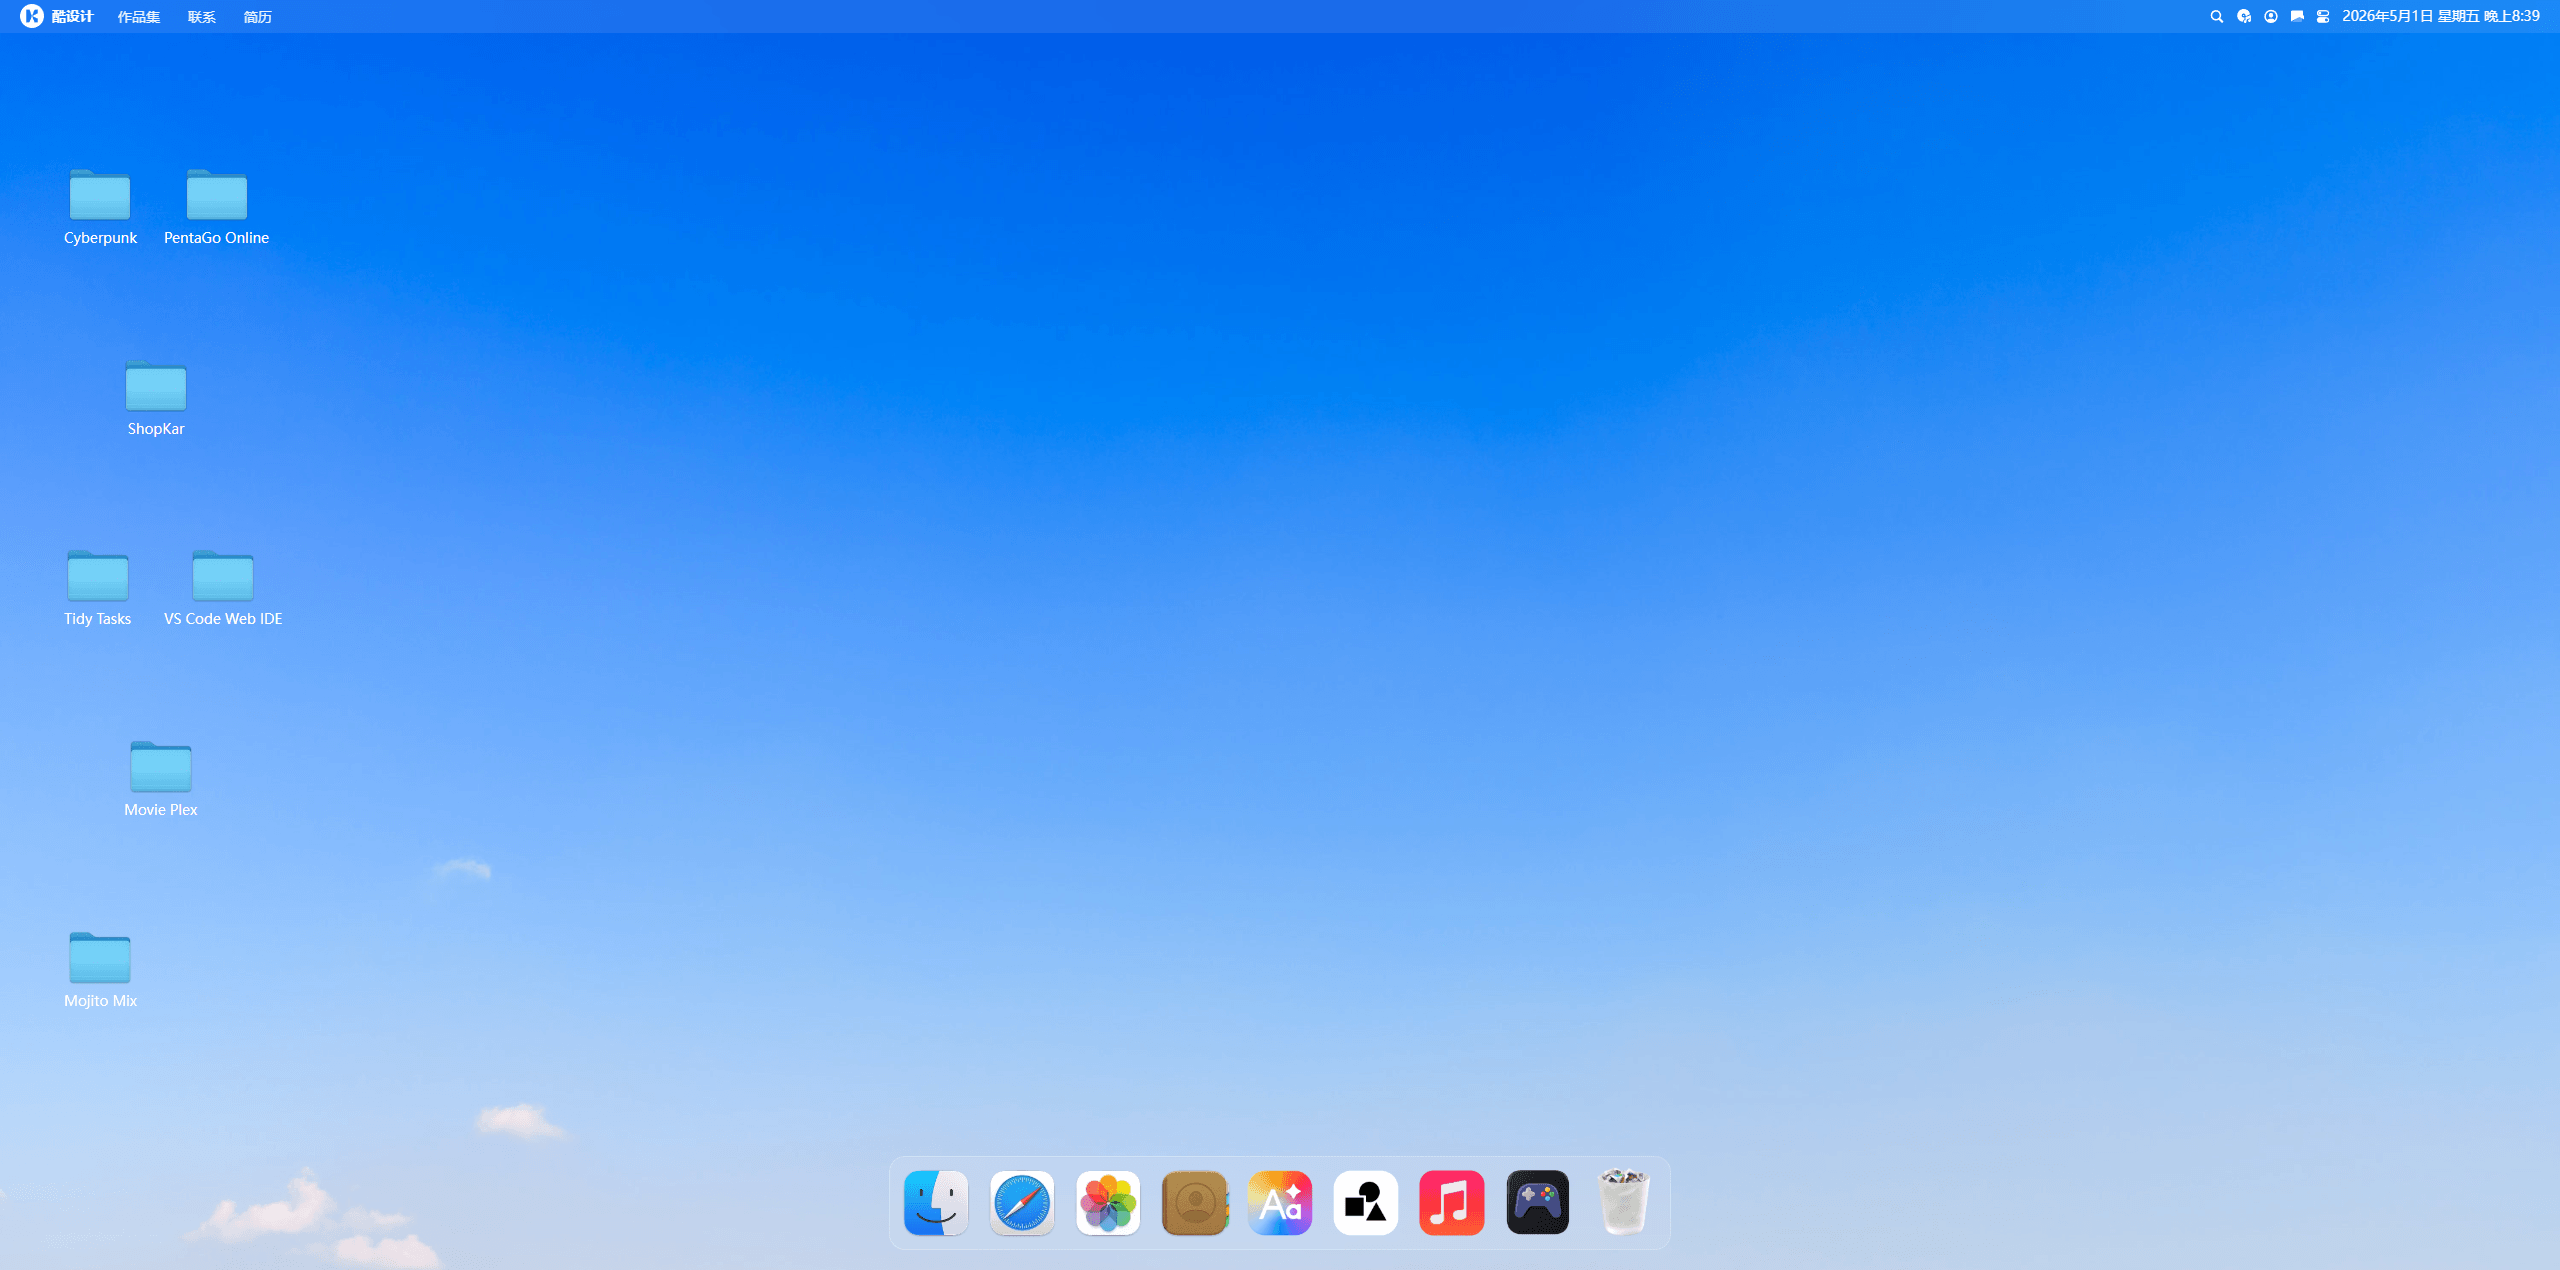
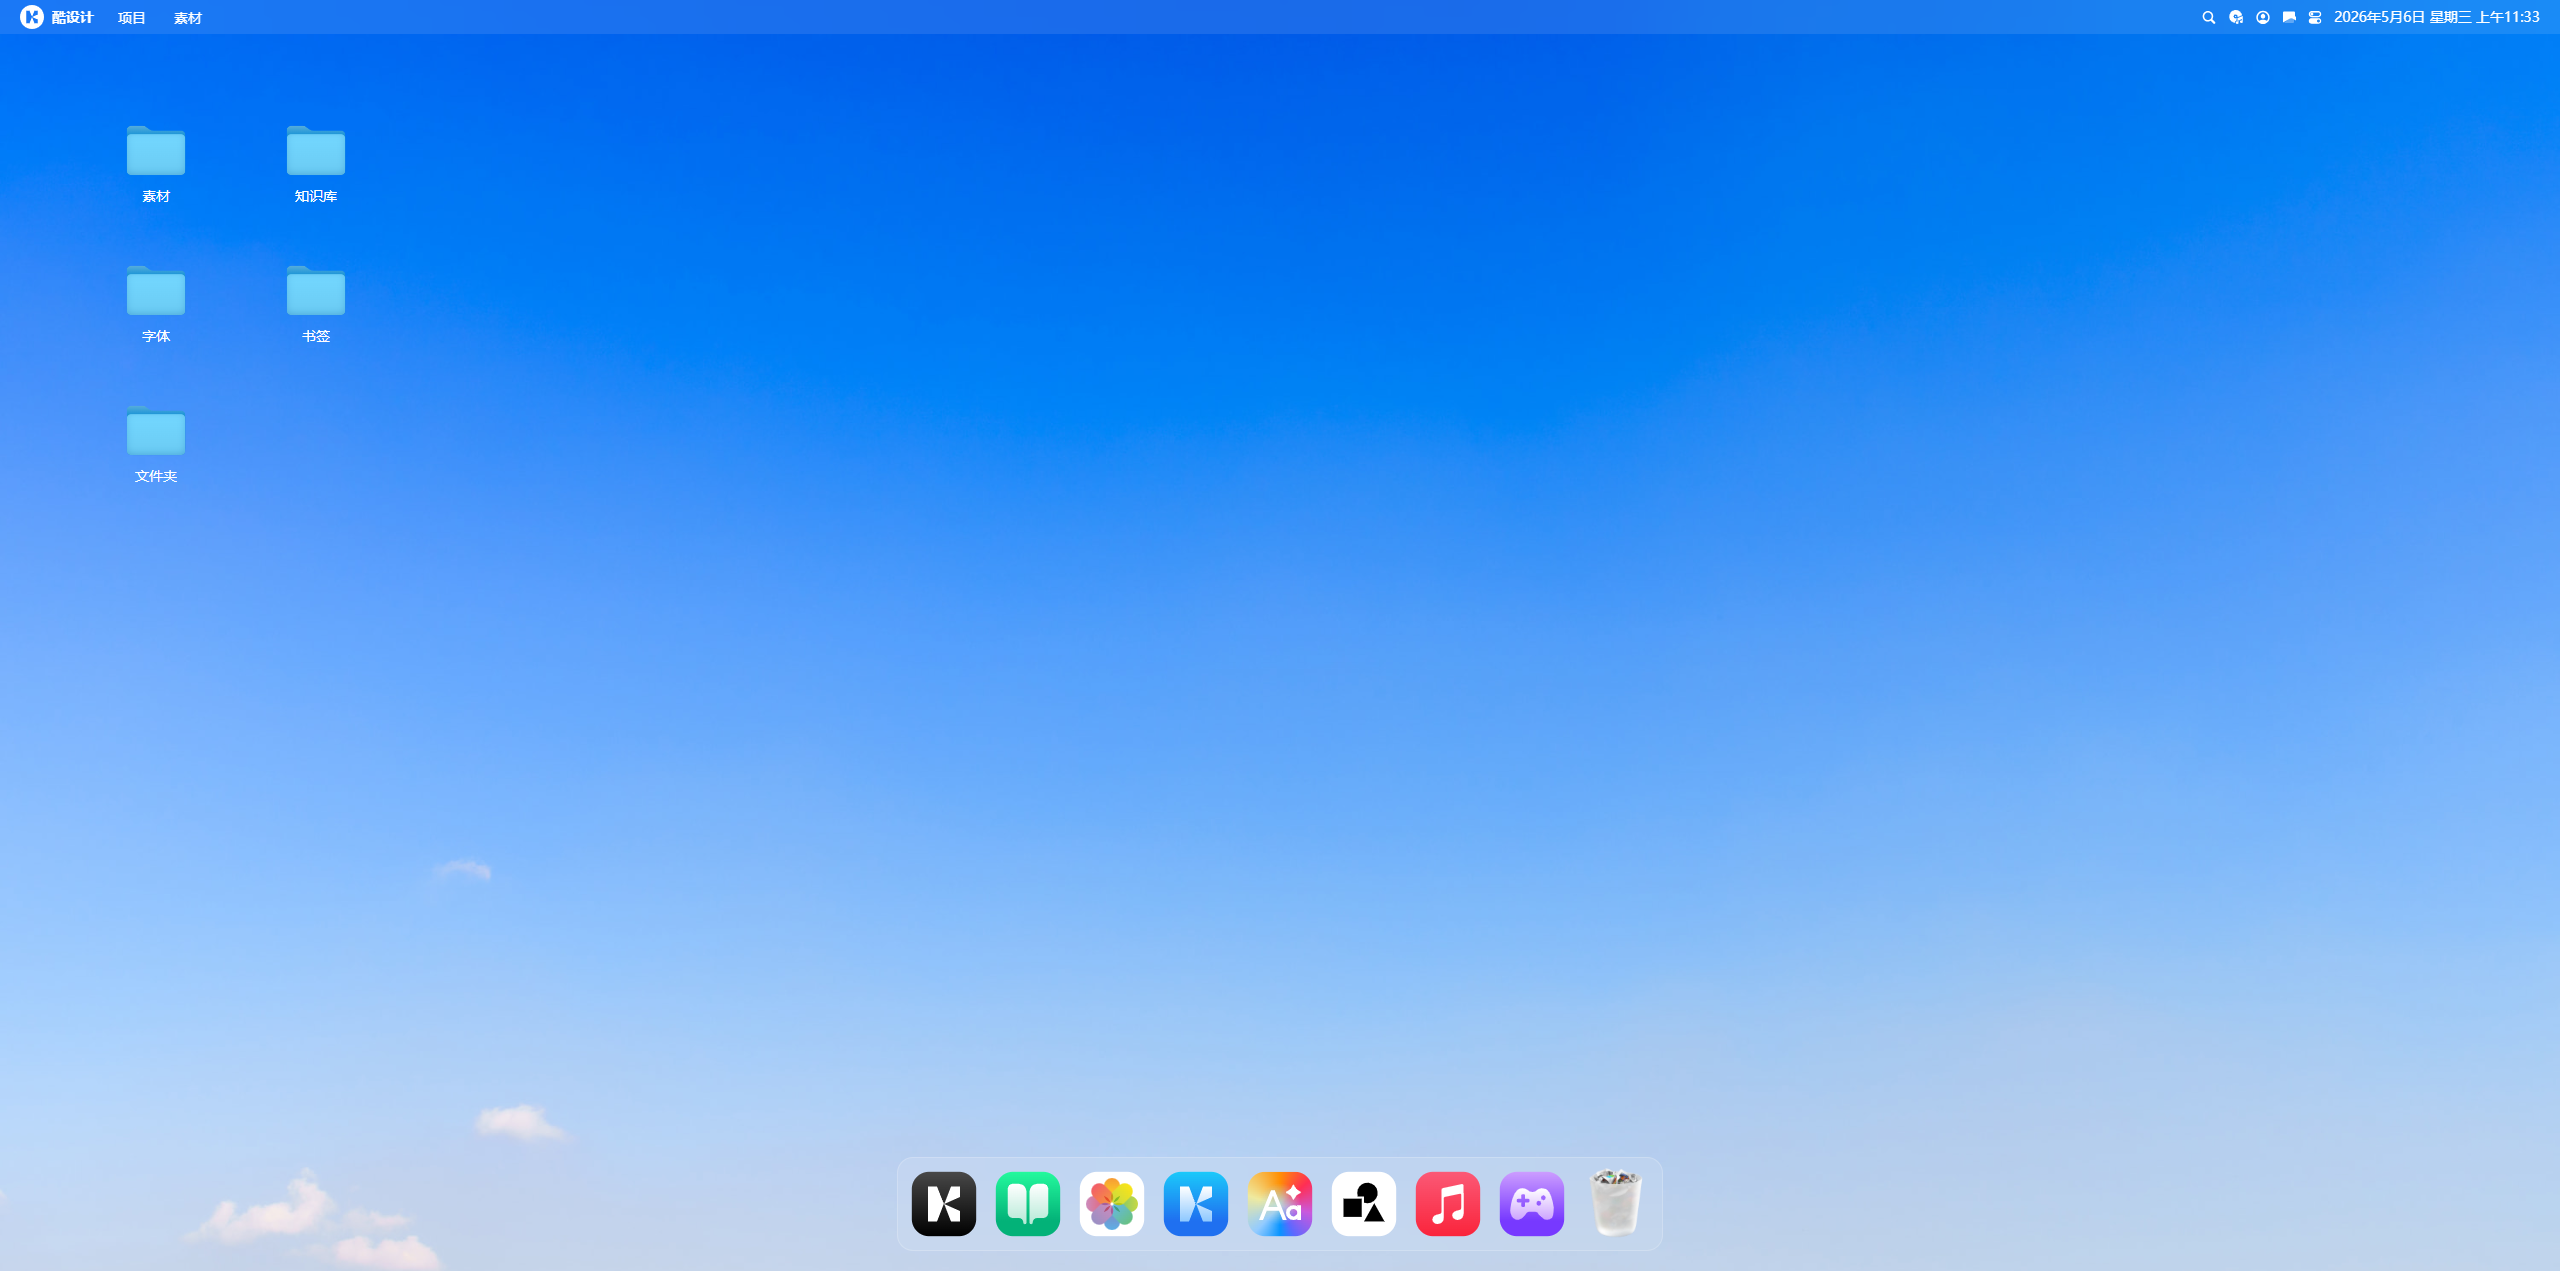
提交

diff --git a/README.md b/README.md
@@ -1,155 +1,188 @@
-# macOS-Style Portfolio
+# macOS 风格主页
 
-A modern, interactive portfolio website built with React that mimics the macOS desktop experience. Features a draggable dock, window management system, and various applications including a music player, photo gallery, and more.
+一个 macOS 桌面体验的交互式网站，基于 React 构建。包含 Dock 栏、多窗口管理系统，以及音乐播放器、相册、终端等多个虚拟应用。
 
-![Portfolio Preview](./public/preview.png)
+## 功能特性
 
-## ✨ Features
+- **macOS 桌面体验** - 还原 macOS 窗口控制、Dock 栏与动画效果
+- **多窗口管理** - 支持拖拽、最小化、最大化等操作
+- **虚拟应用**：
+  - 音乐播放器（支持播放列表）
+  - 瀑布流相册
+  - 个人简历
+  - 项目展示
+  - 联系方式
+  - 文章浏览器（Safari）
+  - 在线 VS Code 编辑器
+  - 技术栈终端
+  - 文件管理器（Finder）
+  - 小游戏
+- **流畅动画** - 基于 GSAP 的过渡与交互效果
+- **响应式设计** - 适配桌面端与移动端
 
-- **macOS-Inspired UI** - Authentic macOS window controls, dock, and animations
-- **Window Management** - Draggable, minimizable, and maximizable windows
-- **Interactive Applications**:
-  - 🎵 Music Player with playlist support
-  - 📸 Photo Gallery with masonry layout
-  - 📄 Resume Viewer
-  - 💼 Projects Showcase
-  - ✉️ Contact Information
-  - 🌐 Blog/Safari Browser
-  - 🖥️ VS Code IDE
-  - 💻 Terminal with Tech Stack
-  - 📁 Finder File Explorer
-- **Smooth Animations** - GSAP-powered transitions and interactions
-- **Responsive Design** - Optimized for desktop viewing
+## 快速开始
 
-## 🚀 Quick Start
+### 环境要求
 
-### Prerequisites
+- Node.js 18 或更高版本
+- npm 或 yarn 包管理器
 
-- Node.js 18+ 
-- npm or yarn
+### 安装
 
-### Installation
-
-1. Clone the repository
+1. 克隆项目
 ```bash
-git clone https://github.com/yourusername/your-repo-name.git
+git clone https://github.com/xmbsm/macos-home-page.git
 cd your-repo-name
 ```
 
-2. Install dependencies
+2. 安装依赖
 ```bash
 npm install
 ```
 
-3. Start development server
+3. 启动开发服务器
 ```bash
 npm run dev
 ```
 
-4. Open [http://localhost:5173](http://localhost:5173) in your browser
+4. 浏览器访问 http://localhost:5173
 
-## 📦 Build
+## 构建
+
 ```bash
 npm run build
 ```
 
-Build output will be in the `dist/` directory.
+构建产物将输出至 dist 目录。
 
-## 🛠️ Tech Stack
+## 技术栈
 
-- **Frontend Framework**: React 19
-- **Build Tool**: Vite 7
-- **Styling**: Tailwind CSS 4
-- **Animations**: GSAP with Draggable plugin
-- **State Management**: Zustand
-- **Icons**: Lucide React
-- **Fonts**: Google Fonts (Georama, Roboto Mono) via USTC mirror (fonts.loli.net)
+| 技术 | 用途 |
+|------|------|
+| React 19 | 前端框架 |
+| Vite 8 | 构建工具 |
+| Tailwind CSS 4 | 样式框架 |
+| GSAP + Draggable | 动画引擎 |
+| Zustand 5 + Immer | 状态管理（支持不可变更新） |
+| Lucide React | 图标库 |
+| dayjs | 日期格式化 |
+| clsx | 条件类名合并 |
+| react-hook-form | 表单处理 |
+| react-tooltip | 提示气泡 |
+| @web3forms/react | 表单提交服务 |
+| Google Fonts（中科大镜像） | 字体（Georama、Roboto Mono） |
 
-## 📁 Project Structure
+## 项目结构
+
 ```
 src/
-├── components/      # Reusable UI components
-├── constants/       # App configuration and data
-├── hoc/            # Higher-order components (WindowWrapper)
-├── store/          # Zustand state management
-├── windows/        # Individual window components
-└── App.jsx         # Main application component
+├── components/          # 可复用 UI 组件
+│   ├── Clock.jsx        # 时钟组件
+│   ├── ControlPanel.jsx # 控制面板
+│   ├── Dock.jsx         # macOS Dock 栏
+│   ├── Home.jsx         # 桌面主页（含文件夹图标）
+│   ├── MobileWindow.jsx # 移动端窗口
+│   ├── NavBar.jsx       # 顶部菜单栏
+│   ├── NavLink.jsx      # 导航链接
+│   ├── Welcome.jsx      # 欢迎/加载动画
+│   └── WindowControls.jsx # 窗口控制按钮（红黄绿）
+├── constants/           # 静态数据与配置
+│   └── index.js         # Dock 应用列表、窗口配置等
+├── hoc/                 # 高阶组件
+│   └── WindowWrapper.jsx # 窗口外壳封装（拖拽、缩放等）
+├── store/               # Zustand 状态管理
+│   ├── audio.js         # 音频播放状态
+│   ├── location.js      # 当前位置（Finder 导航）
+│   ├── settings.js      # 系统设置
+│   ├── theme.js         # 主题配置
+│   └── window.js        # 窗口状态（打开、关闭、层级等）
+├── windows/             # 各虚拟窗口组件
+│   ├── About.jsx        # 关于
+│   ├── Finder.jsx       # 文件管理器
+│   ├── Game.jsx         # 小游戏
+│   ├── Image.jsx        # 图片查看器
+│   ├── Music.jsx        # 音乐播放器
+│   ├── Ner.jsx          # Ner 页面
+│   ├── Photos.jsx       # 相册
+│   ├── Portfolio.jsx    # 作品集
+│   ├── Resume.jsx       # 简历
+│   ├── Safari.jsx       # Safari 浏览器
+│   ├── Sucai.jsx        # 素材站
+│   ├── Terminal.jsx     # 终端
+│   ├── Text.jsx         # 文本编辑器
+│   ├── Trash.jsx        # 回收站
+│   ├── VSCode.jsx       # VS Code 编辑器
+│   └── Wallpaper.jsx    # 壁纸设置
+├── App.jsx              # 主应用入口（窗口调度、预加载）
+├── index.css            # 全局样式
+└── main.jsx             # React 挂载入口
 ```
 
-## 🎨 Customization
+## 常用命令
 
-### Adding New Songs to Music Player
+| 命令 | 说明 |
+|------|------|
+| npm run dev | 启动开发服务器 |
+| npm run build | 生产环境构建 |
+| npm run preview | 预览生产构建 |
+| npm run lint | 代码规范检查 |
 
-Edit `src/constants/songs.js`:
-```javascript
-export const songs = [
-  {
-    id: 1,
-    title: 'Your Song Title',
-    cover: '/path/to/cover.jpg',
-    src: '/path/to/audio.mp3'
-  }
-]
-```
+## 自定义配置
 
-### Adding Photos to Gallery
+### 添加音乐
 
-Add images to `public/images/` and update `src/constants/photos.js`
+编辑 src/constants/songs.js
 
-### Customizing Wallpaper
+### 添加相册图片
 
-Replace the wallpaper URL in `src/App.css`:
-```css
-html, body {
-  background-image: url('/images/your-wallpaper.webp');
-}
-```
+将图片放入 public/images 目录，并更新 src/constants/photos.js
 
-## 🖼️ Adding New Windows
+### 更换壁纸
 
-1. Create a new component in `src/windows/`
-2. Wrap it with `WindowWrapper` HOC
-3. Add window state to Zustand store
-4. Add dock icon and click handler
+在 src/App.css 中修改壁纸路径
 
-## 📝 Available Scripts
+### 新增虚拟窗口
 
-| Command | Description |
-|---------|-------------|
-| `npm run dev` | Start development server |
-| `npm run build` | Build for production |
-| `npm run preview` | Preview production build |
-| `npm run lint` | Run ESLint |
+1. 在 src/windows 下创建新组件
+2. 使用 WindowWrapper 高阶组件包裹
+3. 在 Zustand store 中添加窗口状态
+4. 在 Dock 栏中添加对应图标和点击事件
 
-## 🌐 Deployment
+## 部署
 
-This project can be deployed to:
-- Vercel
-- Netlify
-- Any static hosting service
+支持部署到以下平台：
+- [Vercel](https://vercel.com)
+- [Netlify](https://netlify.com)
+- [腾讯 EdgeOne](https://edgeone.ai)
+- [阿里云 ESA](https://www.aliyun.com/product/esa)
+- 任意静态托管服务
 
-Make sure to configure the base path if deploying to a subdirectory.
+### 腾讯 EdgeOne 部署
 
-## 🤝 Contributing
+1. 先执行构建：`npm run build`
+2. 将 `dist` 目录上传至 EdgeOne Pages
+3. 或通过 GitHub 仓库关联自动构建部署
 
-Contributions, issues, and feature requests are welcome! Feel free to check the [issues page](link-to-issues).
+### 阿里云 ESA 部署
 
-## 📄 License
+1. 先执行构建：`npm run build`
+2. 在阿里云控制台创建 ESA 站点
+3. 将 `dist` 目录上传至站点根目录
+4. 配置 CDN 加速与 HTTPS 证书
 
-This project is open source and available under the [MIT License](LICENSE).
+> 如部署到子目录，请配置 `vite.config.js` 中的 `base` 路径。
 
-## 👤 Author
+## 作者
 
-**Swastik Sharma**
-- GitHub: [@github](https://github.com/)
-- LinkedIn: [linkedin](https://linkedin.com/)
-- Portfolio: [酷设计](https://kusheji.com)
+**乔同学**
+- 站点：酷设计 https://kusheji.com
 
-## 🙏 Acknowledgments
+## 致谢
 
-- Icons by [Lucide](https://lucide.dev)
-- Fonts from [Google Fonts](https://fonts.google.com)
+- 本项目基于开源项目 [Portfolio-macOS](https://github.com/SwastikSharma15/Portfolio-macOS) 二次开发
+- 图标来自 [Lucide](https://lucide.dev)
+- 字体通过 [Google Fonts 中科大镜像](https://fonts.loli.net) 加载
 
 ---
 
-⭐️ If you like this project, please give it a star on GitHub!
+如果喜欢这个项目，欢迎在 GitHub 上点个 Star！